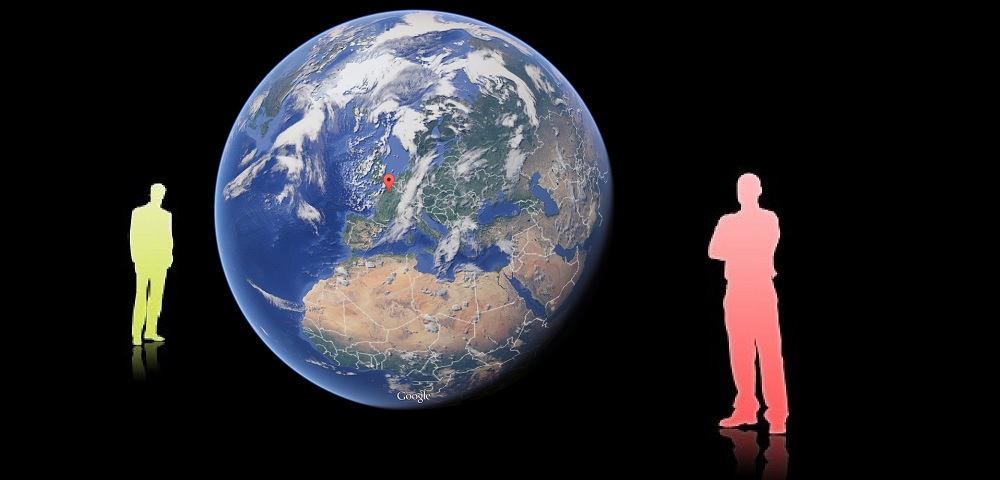
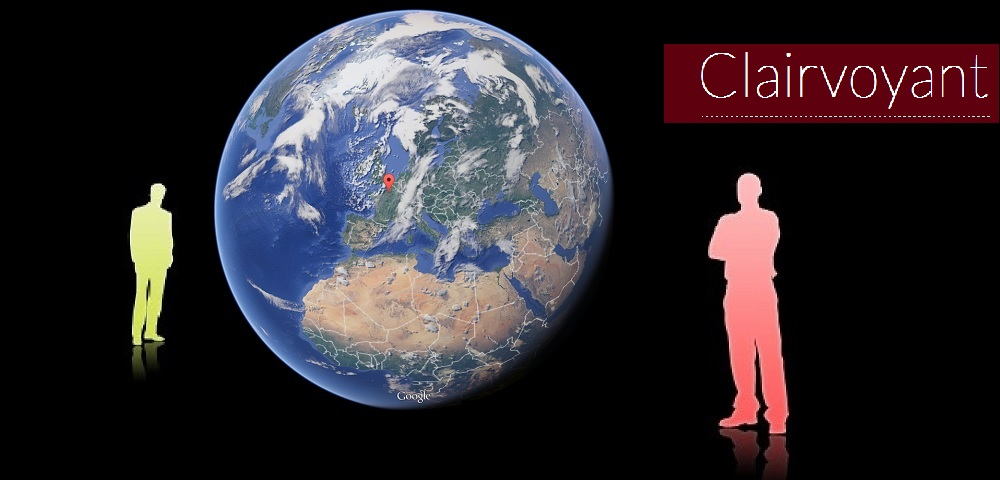
Adding first post.

Changed region(s): [[0.651, 0.0938, 1.0, 0.2812]]

diff --git a/project_summary.md b/project_summary.md
@@ -6,13 +6,29 @@
 ## Description
 Clairvoyant 1.0
 Our diversity, is a feature that could bring variety in our understanding of our socio-cultural interactions, our perception and value of the planet we live in. But, unfortunatelly, diversity is also the root of racism and people not appeciating the different others.
-Clairvoyant - A spherical ball - an out door installation (radius 3 meters) with rotating map on it that visually takes a user to any part of the world to show a city, the diversity of people in the city and other features of that area.
-A user comes close to the sphere and names a city (verbally) - a microphone in the base of the sphere processes the speech and feeds the data to google maps api to get the coordinates of the venue/city. The sphere rotates to focus on that sphere and zooms in to display features of the venue as well as a social diversity of people in that area.
+Clairvoyant - A spherical ball - an out door installation (radius 2 meters) with rotating map on it that visually takes a user to any part of the world to show a city, the diversity of people in the city and other features of that area.
+A user comes close to the sphere and names a city (verbally) - a microphone in the base of the sphere processes the speech and feeds the data to google maps api to get the coordinates of the venue/city. The sphere rotates to that location and zooms in to display features of the venue as well as a set of pictures that depict the social diversity of people in that area.
 
 When no input is fed to Clairvoyant, it rotates to show the rotation of the planet around its axis
 
 Clairvoyant 2.0 
-Multiple spherical installations of clairvoyant in different cities enabling different people to exchange handwaves, smiles and friendly gestures.
+Multiple clairvoyant installations in different cities enabling different people to exchange handwaves, smiles and friendly gestures.
+
+
+## Puropse
+The purpose of Clairvoyant project is to use art and technology to embrace diversity and cultural differences and help people to discover other parts of the world, and the cultural diveresity there in. It is a small attempt at motivating fraternity among people in different parts of the planet.
+
+## Challenges
+1. Hardware setup of glass or plastic sphere.
+2. 3 to 4 projectors that cover sections of the sphere projecting google maps or map of the earth.
+3. Voice to Text Module.
+4. Google maps API and streaming map video/images 30 frames/sec ?
+5. Sync between multiprojectors to cover certain sections of the globe in relation to what the user sees.
+
+
+## Interaction
+A user comes to one side of clairvoyant (sphere is rotating* at this moment). The user calls out a city/country/venue name. The sphere stops at that geolocation and zooms in to display detailed features of what was called. Down below  the array of monitors display images of cultural/social diversity, popular spots and history of that geolocation.
+
 
 ## Link to Prototype
 NOTE: If your project lives online you can add one or more links here. Make sure you have a stable version of your project running before linking it.

diff --git a/project_posts/2014-03-23-Initial-Sketches.md b/project_posts/2014-03-23-Initial-Sketches.md
@@ -1,0 +1,4 @@
+A picture speaks a thousand words. I've put in a basic pencil and paper designs of certain parts of the idea.
+![Initial sketches](../project_images/photo3.JPG?raw=true "Initial sketches")
+![Initial sketches](../project_images/photo2.JPG?raw=true "Initial sketches")
+![Initial sketches](../project_images/photo1.JPG?raw=true "Initial sketches")
